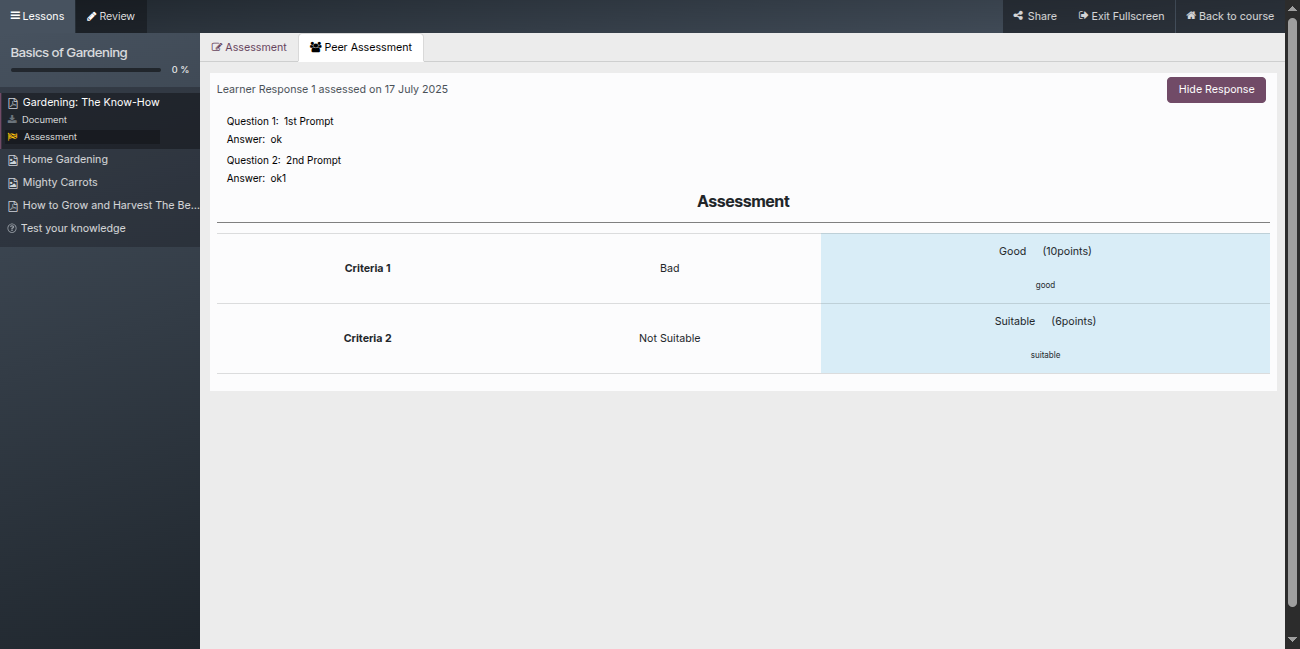
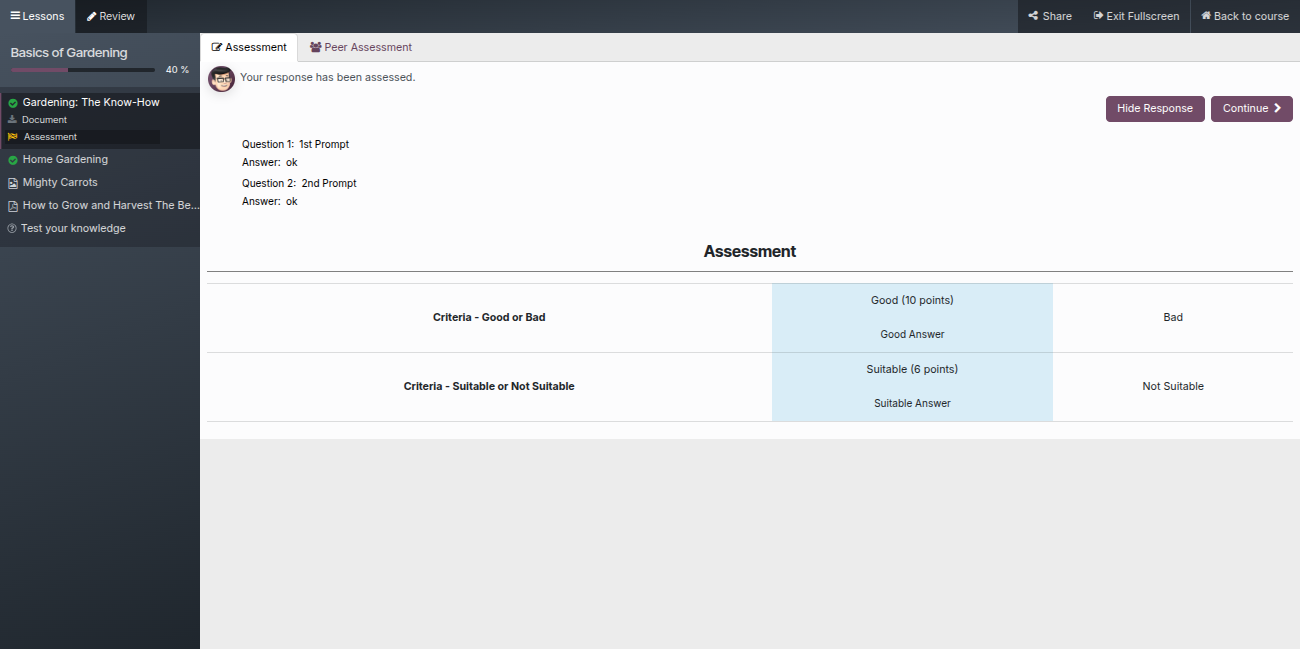
[UPD]Images and Documentation

diff --git a/website_ora_elearning/static/description/index.html b/website_ora_elearning/static/description/index.html
@@ -17,52 +17,52 @@
       <ul style=" padding: 0 1px; list-style: none; ">
          <li style="display: flex;align-items: center;padding: 8px 0;font-size: 18px;"><i class="fa fa-check-circle-o"
                style="width:40px; color:#00438b"></i>
-            Provides Open Response Assessment(ORA) with feedback on top of Odoo Elearning.
+            Provides Open Response Assessment (ORA) with feedback, integrated into Odoo eLearning.
          </li>
          <li style="display: flex;align-items: center;padding: 8px 0;font-size: 18px;"><i class="fa fa-check-circle-o"
                style="width:40px; color:#00438b"></i>
-            Provide functionality to create prompts(Subjective Questions) and rubric(Scoring criterion) for the content.
+            Allows creation of prompts (subjective questions) and rubrics (scoring criteria) for course content.
          </li>
          <li style="display: flex;align-items: center;padding: 8px 0;font-size: 18px;"><i class="fa fa-check-circle-o"
                style="width:40px; color:#00438b"></i>
-            Maintain history of responses submitted by learner with staff feedback.
+            Maintains a history of responses submitted by learners, along with staff feedback.
          </li>
          <li style="display: flex;align-items: center;padding: 8px 0;font-size: 18px;"><i class="fa fa-check-circle-o"
                style="width:40px; color:#00438b"></i>
-            Allow course creators to give feedback and option to resubmit the assigment.
+            Enables course creators to give feedback and offer an option to resubmit the assignment.
          </li>
          <li style="display: flex;align-items: center;padding: 8px 0;font-size: 18px;"><i class="fa fa-check-circle-o"
                style="width:40px; color:#00438b"></i>
-            Supports rich text and normal text as response.
+            Supports both rich text and plain text responses.
          </li>
          <li style="display: flex;align-items: center;padding: 8px 0;font-size: 18px;"><i class="fa fa-check-circle-o"
                style="width:40px; color:#00438b"></i>
-            Rich text provide options to insert images and documents as odoo do.
+            Rich text allows learners to insert images and documents, just like in standard Odoo editors.
          </li>
          <li style="display: flex;align-items: center;padding: 8px 0;font-size: 18px;"><i class="fa fa-check-circle-o"
                style="width:40px; color:#00438b"></i>
-            Assessment can be done from both screen view(Fullscreen & Normal).
+            Assessment can be done in both fullscreen and normal screen views.
          </li>
          <h2 style="font-weight: 600;font-size: 1.8rem;margin-top: 15px;">Peer Assessment</h2>
          <li style="display: flex;align-items: center;padding: 8px 0;font-size: 18px;"><i class="fa fa-check-circle-o"
                style="width:40px; color:#00438b"></i>
-            Allow user to enable/disable peer assessment.
+            Allows users to enable or disable peer assessment.
          </li>
          <li style="display: flex;align-items: center;padding: 8px 0;font-size: 18px;"><i class="fa fa-check-circle-o"
                style="width:40px; color:#00438b; margin-right: 13px;"></i>
-            We can enable peer, staff, and user notifications to send emails and in-app notifications when an assessment is submitted and reviewed by peers or staff.
+            Peer, staff, and user notifications can be enabled to send emails and in-app alerts when an assessment is submitted or reviewed.
          </li>
          <li style="display: flex;align-items: center;padding: 8px 0;font-size: 18px;"><i class="fa fa-check-circle-o"
                style="width:40px; color:#00438b"></i>
-            Allow learner to assess the responses of the other learner(Peer).
+            Allows learners to assess responses submitted by their peers.
          </li>
          <li style="display: flex;align-items: center;padding: 8px 0;font-size: 18px;"><i class="fa fa-check-circle-o"
                style="width:40px; color:#00438b"></i>
-            Responses of learner will be automatically allocated to peers.
+            Learners' responses are automatically allocated to peers for assessment.
          </li>
          <li style="display: flex;align-items: center;padding: 8px 0;font-size: 18px;"><i class="fa fa-check-circle-o"
                style="width:40px; color:#00438b"></i>
-            Multilingual support (English, Hindi).
+            Multilingual support is available (English, Hindi).
          </li>
       </ul>
    </div>
@@ -77,7 +77,7 @@
                   <h3 class="alert"
                      style="font-weight:400;color: #091E42;background: #fff;text-align: left;border-radius: 0; font-size: 18px;">
                      <i class="fa fa-check-circle-o" style="width:40px; color:#00438b"></i>
-                     Create prompts that you want to ask from users.
+                     Create prompts that you want to ask users.
                   </h3>
                   <div style="text-align: center;"><img class="img img-responsive center-block"
                         style="border-top-left-radius: 10px;border-top-right-radius: 10px; width: 80%;"
@@ -89,7 +89,7 @@
                   <h3 class="alert"
                      style="font-weight:400;color: #091E42;background: #fff;text-align: left;border-radius: 0; font-size: 18px;">
                      <i class="fa fa-check-circle-o" style="width:40px; color:#00438b"></i>
-                     Creator can define the criteria on which response will be assessed.
+                     The creator can define the criteria on which responses will be assessed.
                      <br>
                   </h3>
                   <div style="text-align: center;"><img class="img img-responsive center-block"
@@ -102,7 +102,7 @@
                   <h3 class="alert"
                      style="font-weight:400;color: #091E42;background: #fff;text-align: left;border-radius: 0; font-size: 18px;">
                      <i class="fa fa-check-circle-o" style="width:40px; color:#00438b"></i>
-                     You can also enable or disable notifications for users, peers, and staff. When a user submits an assessment, peers (if enabled) receive notifications; otherwise, staff are notified. After peer evaluation, staff are notified, and after staff evaluation, users receive notifications.
+                     You can enable or disable notifications for users, peers, and staff. When a user submits an assessment, peers (if enabled) receive notifications; otherwise, the staff is notified. After peer evaluation, staff is notified, and after staff evaluation, users receive notifications.
                   </h3>
                   <div style="text-align: center;"><img class="img img-responsive center-block"
                         style="border-top-left-radius: 10px;border-top-right-radius: 10px;width: 80%;"
@@ -115,7 +115,7 @@
                   <h3 class="alert"
                      style="font-weight:400;color: #091E42;background: #fff;text-align: left;border-radius: 0; font-size: 18px;">
                      <i class="fa fa-check-circle-o" style="width:40px; color:#00438b"></i>
-                     Learner answers the assessment directly from the course.
+                     Learners answer the assessment directly within the course.
                      <br>
                   </h3>
                   <div style="text-align: center;"><img class="img img-responsive center-block"
@@ -128,7 +128,7 @@
                   <h3 class="alert"
                      style="font-weight:400;color: #091E42;background: #fff;text-align: left;border-radius: 0; font-size: 18px;">
                      <i class="fa fa-check-circle-o" style="width:40px; color:#00438b"></i>
-                     Once user submit the response it will be visible in cards.
+                     Once a user submits a response, it will be visible as a card.
                   </h3>
                   <div style="text-align: center;"><img class="img img-responsive center-block"
                         style="border-top-left-radius: 10px;border-top-right-radius: 10px;width: 80%;"
@@ -141,7 +141,20 @@
                   <h3 class="alert"
                      style="font-weight:400;color: #091E42;background: #fff;text-align: left;border-radius: 0; font-size: 18px;">
                      <i class="fa fa-check-circle-o" style="width:40px; color:#00438b"></i>
-                     Once user submit the response creator can assess it or give feedback to it.
+                     Once the user submits the assessment for review, an email and notification will be sent to a peer if available; otherwise, it will be sent to the staff.
+                  </h3>
+                  <div style="text-align: center;"><img class="img img-responsive center-block"
+                        style="border-top-left-radius: 10px;border-top-right-radius: 10px;width: 80%;"
+                        src="images/assessment submitted - user.png">
+                  </div>
+               </div>
+            </div>
+            <div style="min-height: 0px;">
+               <div class="col-xs-12 col-sm-12 col-md-12 mb16 mt16" style="float: left;">
+                  <h3 class="alert"
+                     style="font-weight:400;color: #091E42;background: #fff;text-align: left;border-radius: 0; font-size: 18px;">
+                     <i class="fa fa-check-circle-o" style="width:40px; color:#00438b"></i>
+                     After a user submits a response, the creator can assess it or provide feedback.
                   </h3>
                   <div style="text-align: center; margin-bottom: 40px;"><img class="img img-responsive center-block"
                         style="border-top-left-radius: 10px;border-top-right-radius: 10px;width: 80%;"
@@ -162,8 +175,38 @@
                   <h3 class="alert"
                      style="font-weight:400;color: #091E42;background: #fff;text-align: left;border-radius: 0; font-size: 18px;">
                      <i class="fa fa-check-circle-o" style="width:40px; color:#00438b"></i>
-                     Creator can assess the response from the response itself.
+                     Once the peer reviews the user's assessment, an email and notification will be sent to the staff to review the assessment.
                   </h3>
+                  <div style="text-align: center;"><img class="img img-responsive center-block"
+                        style="border-top-left-radius: 10px;border-top-right-radius: 10px;width: 80%;"
+                        src="images/assessment submitted - peer.png">
+                  </div>
+               </div>
+            </div>
+            <div style="min-height: 0px;">
+               <div class="col-xs-12 col-sm-12 col-md-12 mb16 mt16" style="float: left;">
+                  <h3 class="alert"
+                     style="font-weight:400;color: #091E42;background: #fff;text-align: left;border-radius: 0; font-size: 18px;">
+                     <i class="fa fa-check-circle-o" style="width:40px; color:#00438b"></i>
+                     Once the staff reviews the assessment, the user will receive an email and notification stating that their assessment has been reviewed by the staff and, if applicable, by a peer.
+                  </h3>
+                  <div style="text-align: center;"><img class="img img-responsive center-block"
+                        style="border-top-left-radius: 10px;border-top-right-radius: 10px;width: 80%;"
+                        src="images/assessment submitted - staff.png">
+                  </div>
+               </div>
+            </div>
+            <div style="min-height: 0px;">
+               <div class="col-xs-12 col-sm-12 col-md-12 mb16 mt16" style="float: left;">
+                  <h3 class="alert"
+                     style="font-weight:400;color: #091E42;background: #fff;text-align: left;border-radius: 0; font-size: 18px;">
+                     <i class="fa fa-check-circle-o" style="width:40px; color:#00438b"></i>
+                     The creator can assess the response directly from the response itself.
+                  </h3>
+                  <div style="text-align: center;margin-bottom: 40px;"><img class="img img-responsive center-block"
+                        style="border-top-left-radius: 10px;border-top-right-radius: 10px;width: 80%;"
+                        src="images/screen14.png">
+                  </div>
                   <div style="text-align: center;"><img class="img img-responsive center-block"
                         style="border-top-left-radius: 10px;border-top-right-radius: 10px;width: 80%;"
                         src="images/screen8.png">
@@ -175,7 +218,7 @@
                   <h3 class="alert"
                      style="font-weight:400;color: #091E42;background: #fff;text-align: left;border-radius: 0; font-size: 18px;">
                      <i class="fa fa-check-circle-o" style="width:40px; color:#00438b"></i>
-                     Once creator assesses the response learner can see what assessment he got and the xp points for it.
+                     Once the creator assesses the response, the learner can view the assessment and the XP points received.
                   </h3>
                   <div style="text-align: center;"><img class="img img-responsive center-block"
                         style="border-top-left-radius: 10px;border-top-right-radius: 10px;width: 80%;"
@@ -188,7 +231,7 @@
                   <h3 class="alert"
                      style="font-weight:400;color: #091E42;background: #fff;text-align: left;border-radius: 0; font-size: 18px;">
                      <i class="fa fa-check-circle-o" style="width:40px; color:#00438b"></i>
-                     Enable/Disable peer assessment setting from the course.
+                     Enable or disable peer assessment settings from the course settings.
                   </h3>
                   <div style="text-align: center;"><img class="img img-responsive center-block"
                         style="border-top-left-radius: 10px;border-top-right-radius: 10px;width: 80%;"
@@ -201,7 +244,7 @@
                   <h3 class="alert"
                      style="font-weight:400;color: #091E42;background: #fff;text-align: left;border-radius: 0; font-size: 18px;">
                      <i class="fa fa-check-circle-o" style="width:40px; color:#00438b"></i>
-                     Responses of learner will be automatically allocated to peers.
+                     Learners’ responses will be automatically assigned to peers for review.
                   </h3>
                   <div style="text-align: center;"><img class="img img-responsive center-block"
                         style="border-top-left-radius: 10px;border-top-right-radius: 10px;width: 80%;"
@@ -214,7 +257,7 @@
                   <h3 class="alert"
                      style="font-weight:400;color: #091E42;background: #fff;text-align: left;border-radius: 0; font-size: 18px;">
                      <i class="fa fa-check-circle-o" style="width:40px; color:#00438b"></i>
-                     Learner can see the peer assessment once other learner response allocated to them.
+                     A learner can see the peer assessment once another learner's response is allocated to them.
                   </h3>
                   <div style="text-align: center;"><img class="img img-responsive center-block"
                         style="border-top-left-radius: 10px;border-top-right-radius: 10px;width: 80%;"
@@ -227,7 +270,7 @@
                   <h3 class="alert"
                      style="font-weight:400;color: #091E42;background: #fff;text-align: left;border-radius: 0; font-size: 18px;">
                      <i class="fa fa-check-circle-o" style="width:40px; color:#00438b"></i>
-                     Once learner submit the assessment. He/She can see the assessment in a table view.
+                     Once a learner submits the assessment, they can view it in a table format.
                   </h3>
                   <div style="text-align: center;"><img class="img img-responsive center-block"
                         style="border-top-left-radius: 10px;border-top-right-radius: 10px;width: 80%;"

diff --git a/website_ora_elearning/static/src/scss/website_slides.scss b/website_ora_elearning/static/src/scss/website_slides.scss
@@ -11,6 +11,10 @@
     width: 100%;
 }
 
+.o_wysiwyg_wrapper {
+    margin-bottom: 0 !important;
+}
+
 #wrapwrap table.table.table-bordered td, .o_editable table.table.table-bordered td {
 	min-width: 120px;
 }
